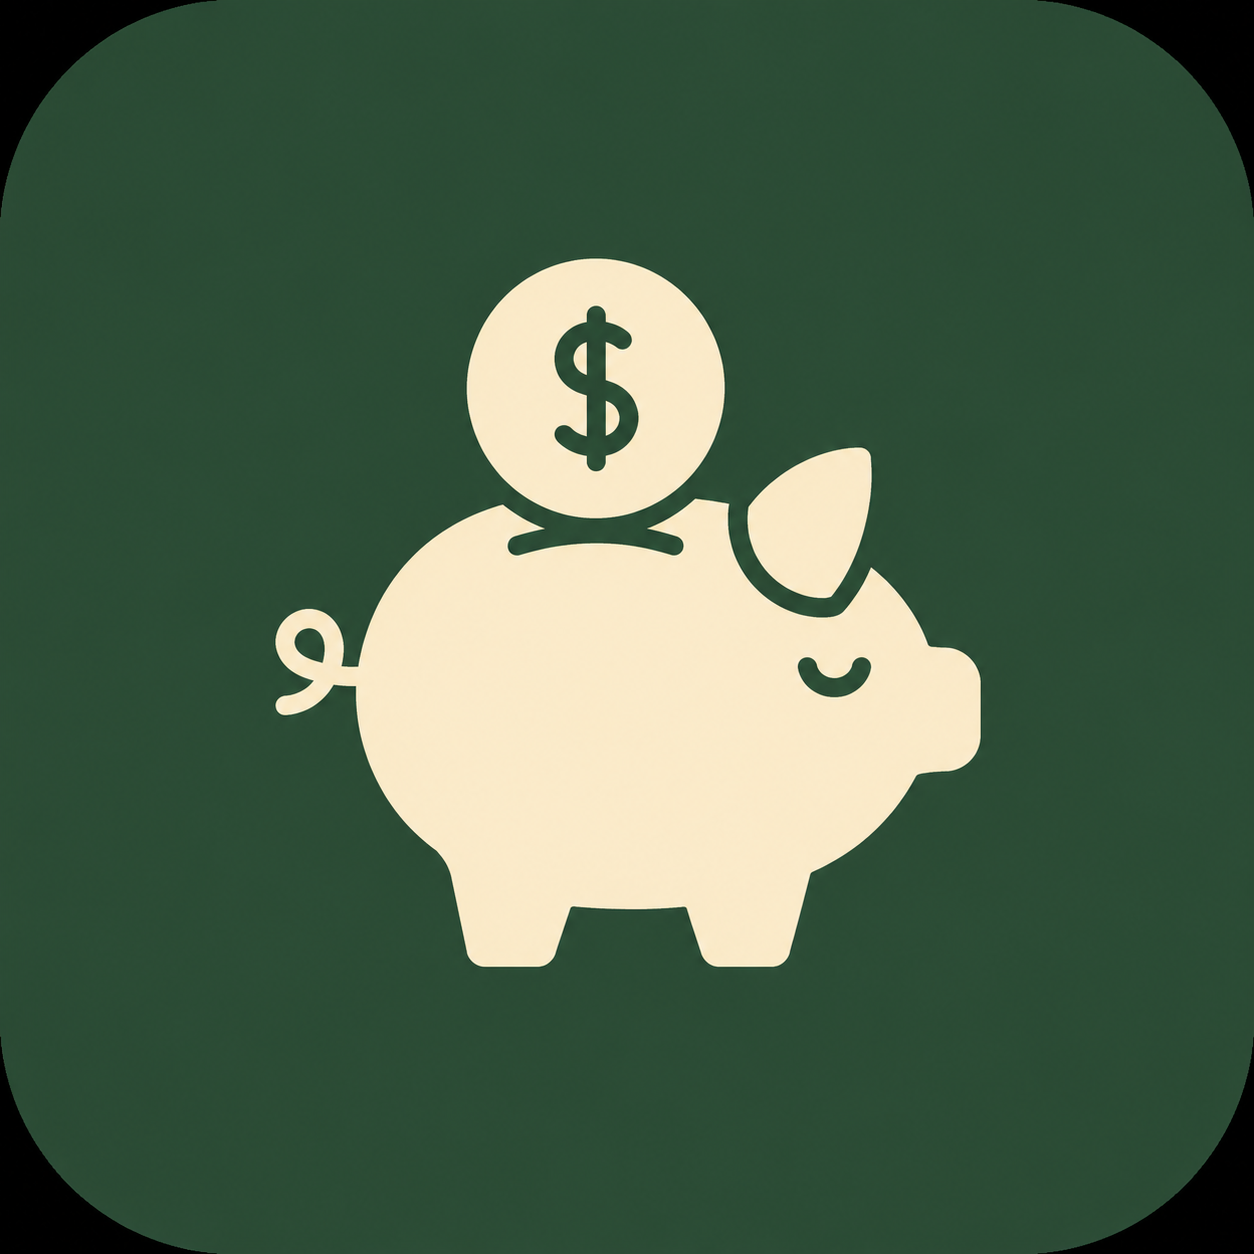
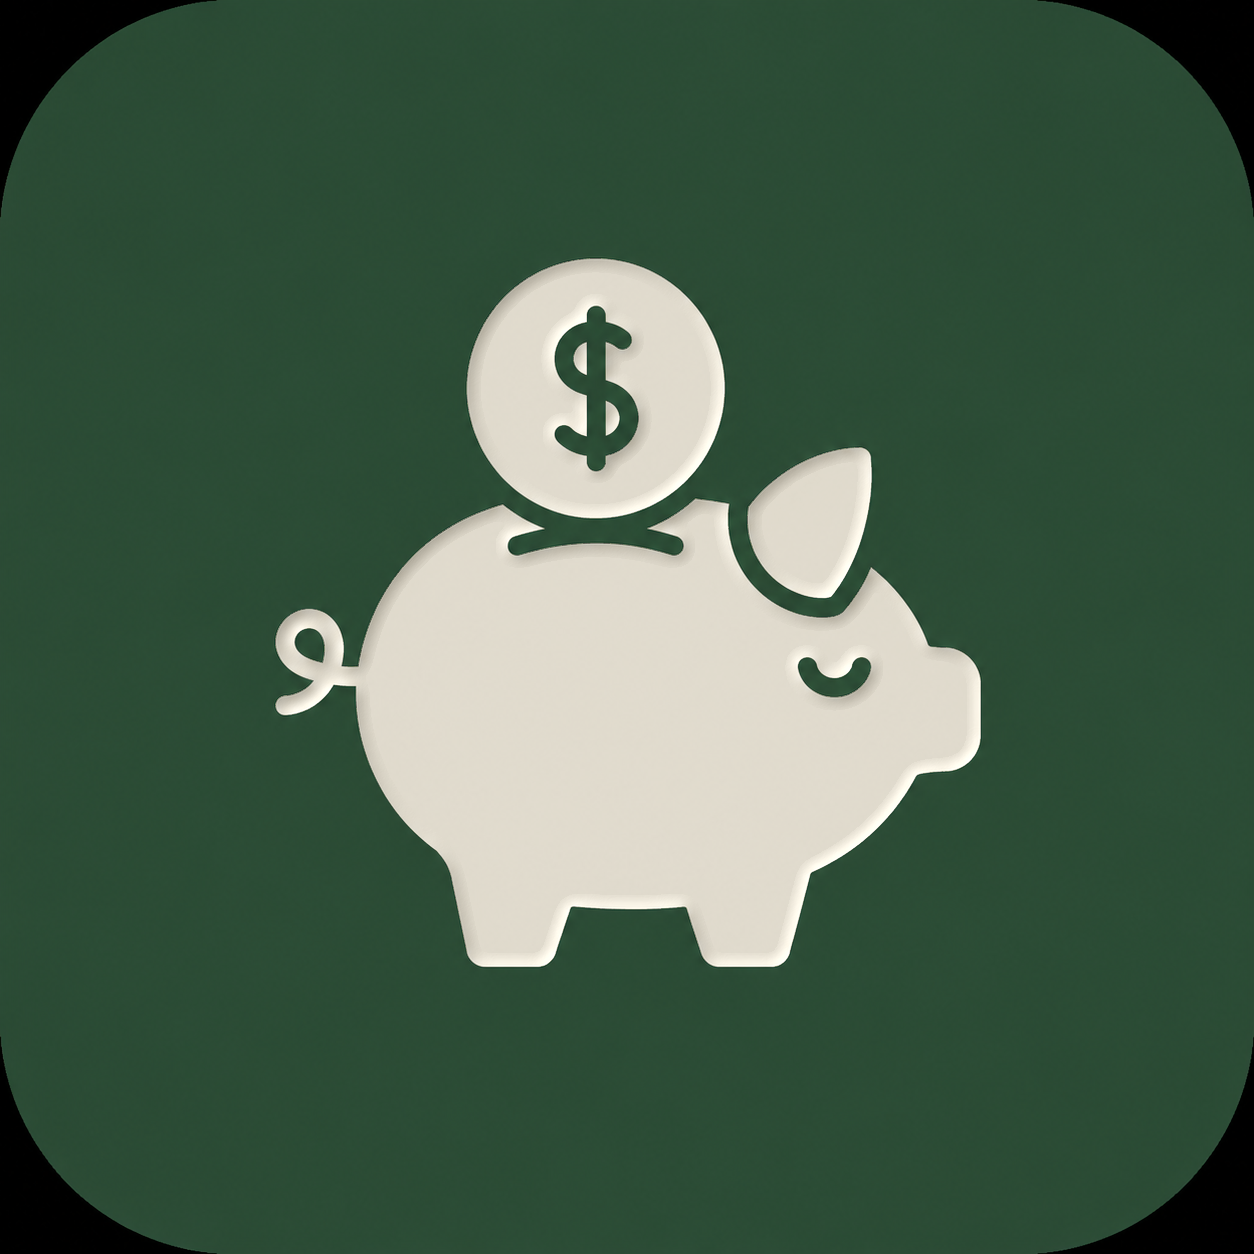
Refina icone: creme do porquinho em tom greige + relevo na borda
- Recolore o corpo do porquinho de creme quente para um greige acinzentado,
  preservando o sombreado natural
- Adiciona um relevo/bisel sutil apenas no contorno (delimitacao com o fundo),
  mantendo o corpo liso
- Incrementa versao do cache do service worker (v11 -> v12)

Claude-Session: https://claude.ai/code/session_018bLva8aNUgZZbx22RhsjN8

Changed region(s): [[0.2177, 0.1866, 0.8086, 0.7775]]

diff --git a/sw.js b/sw.js
@@ -1,4 +1,4 @@
-const CACHE_NAME = 'deliciasvovo-v11';
+const CACHE_NAME = 'deliciasvovo-v12';
 
 const APP_SHELL = [
   './',
